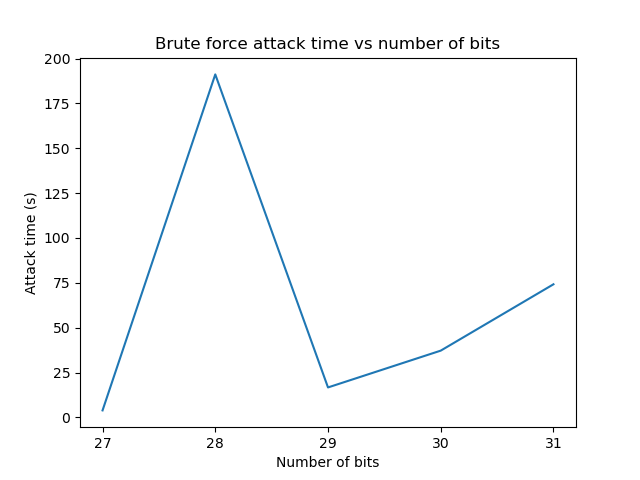
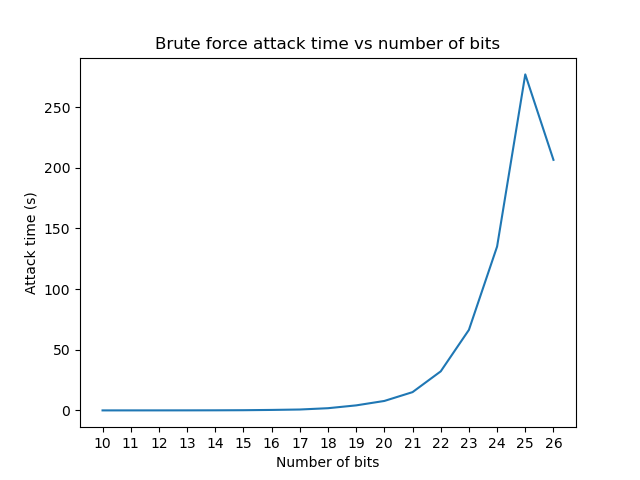
feat: uncommented used code

diff --git a/analysis.py b/analysis.py
@@ -54,7 +54,7 @@ def brute_force_analysis():
     global rsa_victim, rsa_attacker, message
 
     brute_force_times = []
-    x_axis = range(10, 27)
+    x_axis = range(27, 34)
 
     # loop from 1 to 30 bits brute force attack
     for i in x_axis:
@@ -135,9 +135,9 @@ def factorization_analysis():
 
 def main():
     """Main function"""
-    # encryption_decryption_analysis()
+    encryption_decryption_analysis()
     brute_force_analysis()
-    # factorization_analysis()
+    factorization_analysis()
 
 
 if __name__ == "__main__":
